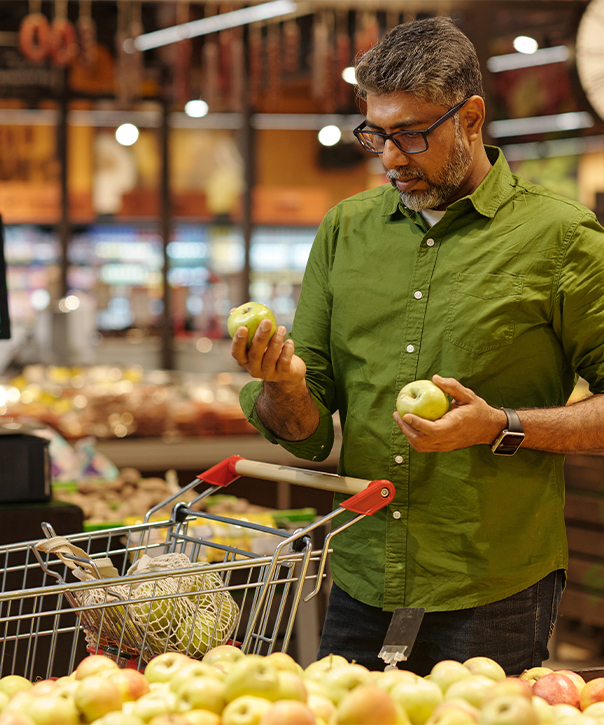
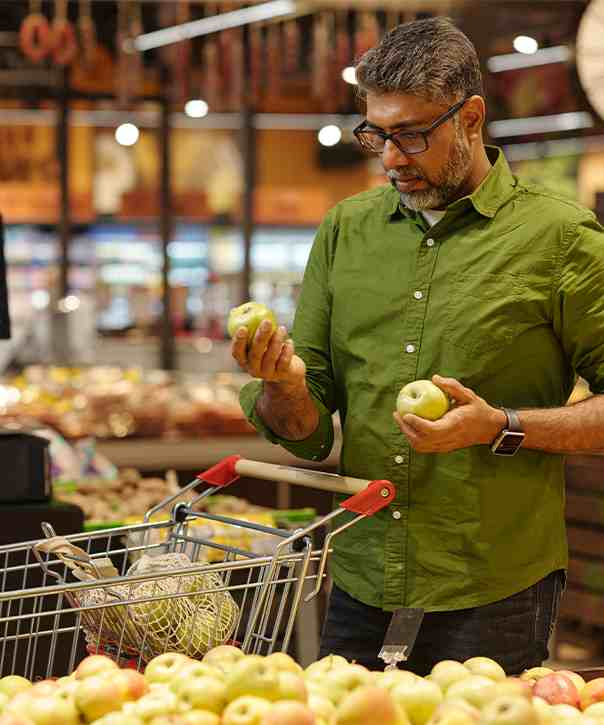
compress images of case study sections in home nd case study page

diff --git a/src/screens/Casestudies/sections/ServicesCatalogSection/ServicesCatalogSection.tsx b/src/screens/Casestudies/sections/ServicesCatalogSection/ServicesCatalogSection.tsx
@@ -180,7 +180,7 @@ const caseStudiesData = [
   {
     id: 4,
     title: "A Force for Good - BRUT INDIA",
-    image: "/brut-thumbnail.png",
+    image: "/brut-thumbnail.jpg",
     tags: ["Packaging"],
     tall: false,
     corner: true,
@@ -202,7 +202,7 @@ const caseStudiesData = [
   {
     id: 6,
     title: "Aditya Birla Group - Fours for Good",
-    image: "/forse-thumbnail1.png",
+    image: "/forse-thumbnail1.jpg",
     tags: ["Packaging"],
     tall: false,
     corner: true,

diff --git a/src/screens/Main/sections/CaseStudiesGrid/CaseStudiesGrid.tsx b/src/screens/Main/sections/CaseStudiesGrid/CaseStudiesGrid.tsx
@@ -206,7 +206,7 @@ const caseStudiesData = [
   {
     id: 5,
     title: "A Force for Good - BRUT INDIA",
-    image: "/brut-thumbnail.png",
+    image: "/brut-thumbnail.jpg",
     tags: ["Packaging"],
     tall: false,
     corner: true,
@@ -216,7 +216,7 @@ const caseStudiesData = [
   {
     id: 6,
     title: "Aditya Birla Group - Fours for Good",
-    image: "/forse-thumbnail1.png",
+    image: "/forse-thumbnail1.jpg",
     tags: ["Packaging"],
     tall: false,
     corner: true,

diff --git a/src/screens/Main/sections/ScrollingStripsSection/ScrollingStripsSection.tsx b/src/screens/Main/sections/ScrollingStripsSection/ScrollingStripsSection.tsx
@@ -20,7 +20,7 @@ export const ScrollingStripsSection = (): JSX.Element => {
 
   const logos = [
     
-    { name: "amazone", src: "/Aditya_Birla_Group_Logo.svg (1).png" },
+    { name: "amazone", src: "/Aditya_Birla_Group_Logo.svg (1).jpg" },
     { name: "amazone", src: "/High Res Logo resize_Artboard 1 copy 40.png" },
     { name: "HUL", src: "/High Res Logo resize_Artboard 1 copy 52.png" },
     { name: "hdfc", src: "https://www.theimpulsedigital.com/hdfc.jpg" },

diff --git a/src/screens/ContentWritingServices/sections/ClientsSection/ClientsSection.tsx b/src/screens/ContentWritingServices/sections/ClientsSection/ClientsSection.tsx
@@ -20,7 +20,7 @@ export const ClientsSection = (): JSX.Element => {
 
   const logos = [
     
-    { name: "amazone", src: "/Aditya_Birla_Group_Logo.svg (1).png" },
+    { name: "amazone", src: "/Aditya_Birla_Group_Logo.svg (1).jpg" },
     { name: "amazone", src: "/High Res Logo resize_Artboard 1 copy 40.png" },
     { name: "HUL", src: "/High Res Logo resize_Artboard 1 copy 52.png" },
     { name: "hdfc", src: "https://www.theimpulsedigital.com/hdfc.jpg" },
